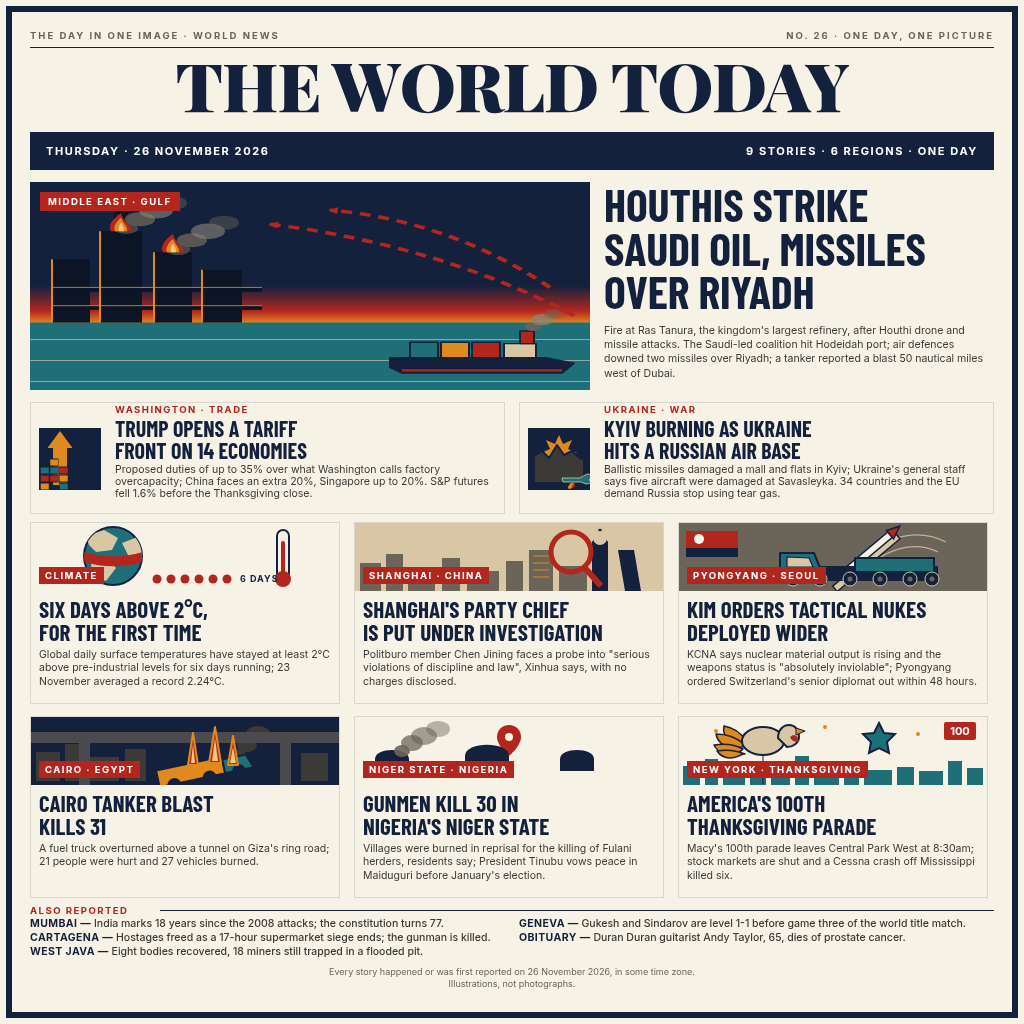
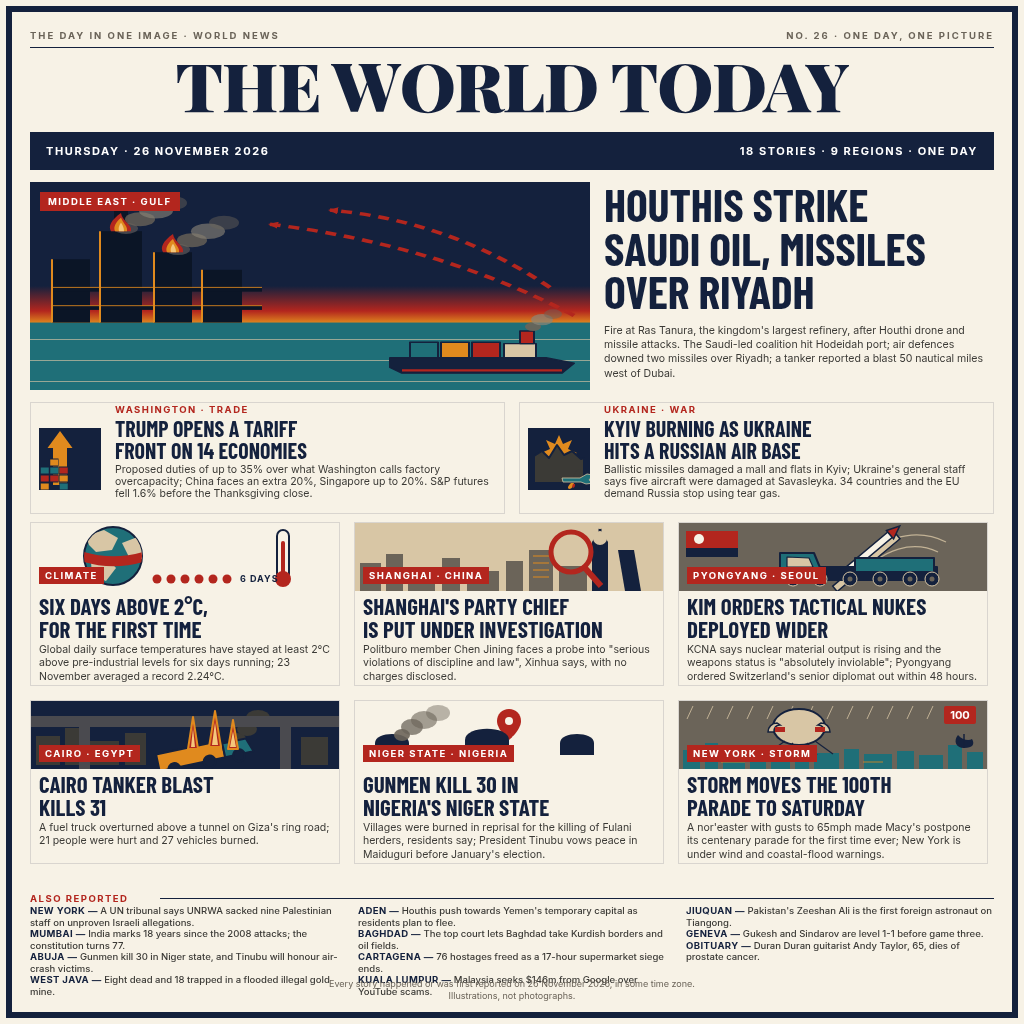
Correct Card H and broaden ALSO REPORTED
- Replace Thanksgiving with the storm-postponed parade on a dark sky.
- List eleven briefs in three 9.5px columns and update the date band.
- Rebalance card and strip heights so all 1024px remain clean.

Changed region(s): [[0.0312, 0.5625, 0.9688, 1.0]]

diff --git a/src/entry.html b/src/entry.html
@@ -33,19 +33,20 @@ body{font-family:Inter,Arial,sans-serif;color:var(--ink);-webkit-font-smoothing:
 .label{font-size:9.5px;line-height:10px;font-weight:700;letter-spacing:1.5px;text-transform:uppercase;color:var(--red);white-space:nowrap}
 .mini-headline{position:absolute;left:0;top:13px;width:383px;height:44px;margin:0;font-family:Barlow,Impact,sans-serif;font-size:22px;line-height:.98;font-weight:700;text-transform:uppercase}
 .mini-standfirst{position:absolute;left:0;top:59px;width:383px;height:48px;margin:0;font-size:10.5px;line-height:1.15;font-weight:400;color:var(--body)}
-.card-row{position:absolute;left:30px;width:964px;height:182px;display:grid;grid-template-columns:310px 310px 310px;gap:14px}
-.row-one{top:522px}.row-two{top:716px}
-.card{position:relative;width:310px;height:182px;border:1px solid #14213D22;background:transparent}
+.card-row{position:absolute;left:30px;width:964px;height:164px;display:grid;grid-template-columns:310px 310px 310px;gap:14px}
+.row-one{top:522px}.row-two{top:700px}
+.card{position:relative;width:310px;height:164px;border:1px solid #14213D22;background:transparent}
 .card-art{position:absolute;left:0;top:0;width:308px;height:68px;overflow:hidden}
-.card-headline{position:absolute;left:8px;top:75px;width:294px;height:48px;margin:0;font-family:Barlow,Impact,sans-serif;font-size:23px;line-height:.98;font-weight:700;text-transform:uppercase}
-.card-standfirst{position:absolute;left:8px;top:125px;width:294px;height:49px;margin:0;font-size:10.5px;line-height:1.28;font-weight:400;color:var(--body)}
-.briefs{position:absolute;left:30px;top:910px;width:964px;height:50px;border-top:1px solid var(--ink);padding-top:6px}
+.card-headline{position:absolute;left:8px;top:72px;width:294px;height:50px;margin:0;font-family:Barlow,Impact,sans-serif;font-size:23px;line-height:.98;font-weight:700;text-transform:uppercase}
+.card-standfirst{position:absolute;left:8px;top:120px;width:294px;height:42px;margin:0;font-size:10.5px;line-height:1.28;font-weight:400;color:var(--body)}
+.briefs{position:absolute;left:30px;top:898px;width:964px;height:100px;border-top:1px solid var(--ink);padding-top:6px}
 .briefs-title{position:absolute;left:0;top:-6px;width:130px;height:12px;padding-right:8px;background:var(--paper);font-size:9.5px;line-height:12px;font-weight:700;letter-spacing:1.5px;color:var(--red);text-transform:uppercase;white-space:nowrap}
-.brief-col{position:absolute;top:6px;width:475px;height:43px;font-size:10.5px;line-height:1.35;font-weight:500;color:var(--body)}
-.brief-col.left{left:0}.brief-col.right{left:489px}
-.brief{margin:0;white-space:nowrap}
+.brief-col{position:absolute;top:6px;width:308px;height:93px;font-size:9.5px;line-height:1.22;font-weight:500;color:var(--body);margin:0;padding:0}
+.brief-col p{margin:0}
+.brief-col.left{left:0}.brief-col.mid{left:328px}.brief-col.right{left:656px}
+.brief{margin:0;white-space:normal}
 .city{font-weight:700;color:var(--ink);letter-spacing:.4px}
-.footer{position:absolute;left:30px;top:966px;width:964px;height:24px;text-align:center;font-size:9px;line-height:12px;font-weight:400;color:var(--muted)}
+.footer{position:absolute;left:30px;top:978px;width:964px;height:24px;text-align:center;font-size:9px;line-height:12px;font-weight:400;color:var(--muted)}
 svg{display:block;width:100%;height:100%}
 svg text{font-family:Inter,Arial,sans-serif}
 </style>
@@ -56,7 +57,7 @@ svg text{font-family:Inter,Arial,sans-serif}
   <div class="kicker"><span>THE DAY IN ONE IMAGE · WORLD NEWS</span><span>NO. 26 · ONE DAY, ONE PICTURE</span></div>
   <div class="kicker-rule"></div>
   <h1 class="masthead">THE WORLD TODAY</h1>
-  <div class="date-band"><span>THURSDAY · 26 NOVEMBER 2026</span><span>9 STORIES · 6 REGIONS · ONE DAY</span></div>
+  <div class="date-band"><span>THURSDAY · 26 NOVEMBER 2026</span><span>18 STORIES · 9 REGIONS · ONE DAY</span></div>
 
   <section class="hero" aria-label="Lead story">
     <div class="hero-art">
@@ -238,34 +239,44 @@ svg text{font-family:Inter,Arial,sans-serif}
     </article>
     <article class="card">
       <div class="card-art">
-        <svg viewBox="0 0 308 68" role="img" aria-label="Lower Manhattan skyline beneath a turkey bird balloon and star balloon">
-          <rect width="308" height="68" fill="#F7F2E6"/>
+        <svg viewBox="0 0 308 68" role="img" aria-label="Manhattan skyline under a dark storm sky with a parade balloon held down by four taut lines">
+          <rect width="308" height="68" fill="#6B6459"/>
+          <g stroke="#D8C6A5" stroke-width="1" opacity=".8"><path d="M14 5 8 18"/><path d="M34 5 28 18"/><path d="M54 5 48 18"/><path d="M74 5 68 18"/><path d="M94 5 88 18"/><path d="M114 5 108 18"/><path d="M134 5 128 18"/><path d="M154 5 148 18"/><path d="M174 5 168 18"/><path d="M194 5 188 18"/><path d="M214 5 208 18"/><path d="M234 5 228 18"/><path d="M254 5 248 18"/><path d="M274 5 268 18"/><path d="M294 5 288 18"/></g>
           <g fill="#1F6F78"><rect x="4" y="49" width="17" height="19"/><rect x="26" y="42" width="13" height="26"/><rect x="44" y="52" width="22" height="16"/><rect x="71" y="46" width="16" height="22"/><rect x="92" y="53" width="19" height="15"/><rect x="116" y="39" width="14" height="29"/><rect x="135" y="52" width="25" height="16"/><rect x="165" y="48" width="15" height="20"/><rect x="185" y="53" width="28" height="15"/><rect x="218" y="50" width="17" height="18"/><rect x="240" y="54" width="24" height="14"/><rect x="269" y="44" width="14" height="24"/><rect x="288" y="51" width="16" height="17"/></g>
-          <path d="M84 37 84 67" fill="none" stroke="#14213D" stroke-width="1"/>
-          <g fill="#E08A1E" stroke="#14213D" stroke-width="1.5" stroke-linejoin="round"><path d="M65 27C50 27 43 19 45 9c11 2 18 8 22 15Z"/><path d="M63 30C48 33 39 27 37 17c12 0 21 4 28 10Z"/><path d="M62 34C48 40 39 36 35 28c12-2 22 0 29 4Z"/><path d="M64 37C51 44 43 41 38 34c11-2 21 0 28 3Z"/></g>
-          <ellipse cx="84" cy="24" rx="21" ry="14" fill="#D8C6A5" stroke="#14213D" stroke-width="2"/>
-          <path d="M99 21c0-8 5-13 11-13s10 5 10 12c0 6-6 10-12 10Z" fill="#D8C6A5" stroke="#14213D" stroke-width="2"/>
-          <path d="m117 11 9 3-9 4Z" fill="#E08A1E" stroke="#14213D" stroke-width="1"/><path d="M114 18c4 0 6 3 5 7-4 0-7-2-8-5Z" fill="#B3261E"/>
-          <path d="m200 6 5 10 11 1-8 8 2 11-10-5-10 5 2-11-8-8 11-1Z" fill="#1F6F78" stroke="#14213D" stroke-width="2"/>
-          <g fill="#E08A1E"><circle cx="37" cy="14" r="2"/><circle cx="146" cy="10" r="2"/><circle cx="239" cy="17" r="2"/></g>
+          <path d="M285 47C277 47 274 40 279 34c4 5 11 6 14 4 3 5 1 9-8 9Z" fill="#14213D"/>
+          <path d="M285 47V33" fill="none" stroke="#14213D" stroke-width="1.5"/>
+          <ellipse cx="120" cy="26" rx="26" ry="18" fill="#D8C6A5" stroke="#14213D" stroke-width="2"/>
+          <path d="M98 22c-5 0-9 4-9 9h6c0-4 2-7 6-7Z" fill="#D8C6A5" stroke="#14213D" stroke-width="1.5"/>
+          <path d="M142 22c5 0 9 4 9 9h-6c0-4-2-7-6-7Z" fill="#D8C6A5" stroke="#14213D" stroke-width="1.5"/>
+          <path d="M96 26h10v5h-10Z" fill="#B3261E"/><path d="M136 26h10v5h-10Z" fill="#B3261E"/>
+          <g stroke="#14213D" stroke-width="1.2"><path d="M106 40 88 53"/><path d="M114 42 104 54"/><path d="M128 42 138 54"/><path d="M136 40 154 53"/></g>
+          <g stroke="#E08A1E" stroke-width="1" opacity=".8"><path d="M20 55h24m-2 6H66m40-6h22m56 6h20"/></g>
           <rect x="265" y="5" width="32" height="18" rx="2" fill="#B3261E"/><text x="281" y="18" text-anchor="middle" fill="white" font-size="11" font-weight="700">100</text>
         </svg>
-        <div class="chip bottom">NEW YORK · THANKSGIVING</div>
+        <div class="chip bottom">NEW YORK · STORM</div>
       </div>
-      <h3 class="card-headline">AMERICA'S 100TH<br>THANKSGIVING PARADE</h3>
-      <p class="card-standfirst">Macy's 100th parade leaves Central Park West at 8:30am; stock markets are shut and a Cessna crash off Mississippi killed six.</p>
+      <h3 class="card-headline">STORM MOVES THE 100TH<br>PARADE TO SATURDAY</h3>
+      <p class="card-standfirst">A nor'easter with gusts to 65mph made Macy's postpone its centenary parade for the first time ever; New York is under wind and coastal-flood warnings.</p>
     </article>
   </section>
 
   <section class="briefs" aria-label="Also reported">
     <div class="briefs-title">ALSO REPORTED</div>
     <div class="brief-col left">
+      <p class="brief"><span class="city">NEW YORK —</span> A UN tribunal says UNRWA sacked nine Palestinian staff on unproven Israeli allegations.</p>
       <p class="brief"><span class="city">MUMBAI —</span> India marks 18 years since the 2008 attacks; the constitution turns 77.</p>
-      <p class="brief"><span class="city">CARTAGENA —</span> Hostages freed as a 17-hour supermarket siege ends; the gunman is killed.</p>
-      <p class="brief"><span class="city">WEST JAVA —</span> Eight bodies recovered, 18 miners still trapped in a flooded pit.</p>
+      <p class="brief"><span class="city">ABUJA —</span> Gunmen kill 30 in Niger state, and Tinubu will honour air-crash victims.</p>
+      <p class="brief"><span class="city">WEST JAVA —</span> Eight dead and 18 trapped in a flooded illegal gold mine.</p>
+    </div>
+    <div class="brief-col mid">
+      <p class="brief"><span class="city">ADEN —</span> Houthis push towards Yemen's temporary capital as residents plan to flee.</p>
+      <p class="brief"><span class="city">BAGHDAD —</span> The top court lets Baghdad take Kurdish borders and oil fields.</p>
+      <p class="brief"><span class="city">CARTAGENA —</span> 76 hostages freed as a 17-hour supermarket siege ends.</p>
+      <p class="brief"><span class="city">KUALA LUMPUR —</span> Malaysia seeks $146m from Google over YouTube scams.</p>
     </div>
     <div class="brief-col right">
-      <p class="brief"><span class="city">GENEVA —</span> Gukesh and Sindarov are level 1-1 before game three of the world title match.</p>
+      <p class="brief"><span class="city">JIUQUAN —</span> Pakistan's Zeeshan Ali is the first foreign astronaut on Tiangong.</p>
+      <p class="brief"><span class="city">GENEVA —</span> Gukesh and Sindarov are level 1-1 before game three.</p>
       <p class="brief"><span class="city">OBITUARY —</span> Duran Duran guitarist Andy Taylor, 65, dies of prostate cancer.</p>
     </div>
   </section>
